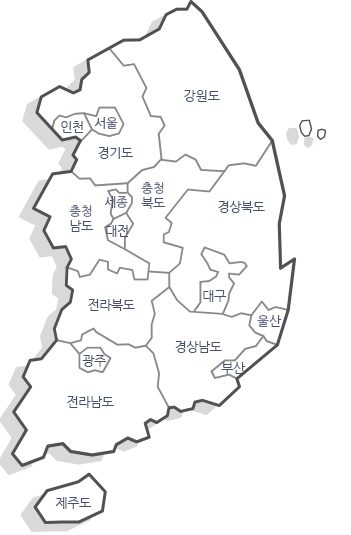
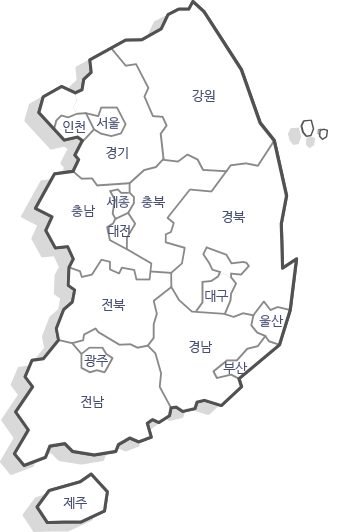
구본용 : 누락된 전국지도 변경, 전남 지도 위치 조정

diff --git a/assets/css/ref_survey_cp.css b/assets/css/ref_survey_cp.css
@@ -228,10 +228,11 @@ button:focus {
     left: 51px;
     background: url('/images/ref_survey_2024/ref_map/over_jeonbuk.png') no-repeat;
 }
+/* [D] 240315 : 지도 위치 조정 */
 .comparative .comparativeMap .map-area .map-country .overarea li#over_jeonnam {
     width: 160px;
     height: 154px;
-    top: 316px;
+    top: 318px;
     left: 10px;
     background: url('/images/ref_survey_2024/ref_map/over_jeonnam.png') no-repeat;
 }
